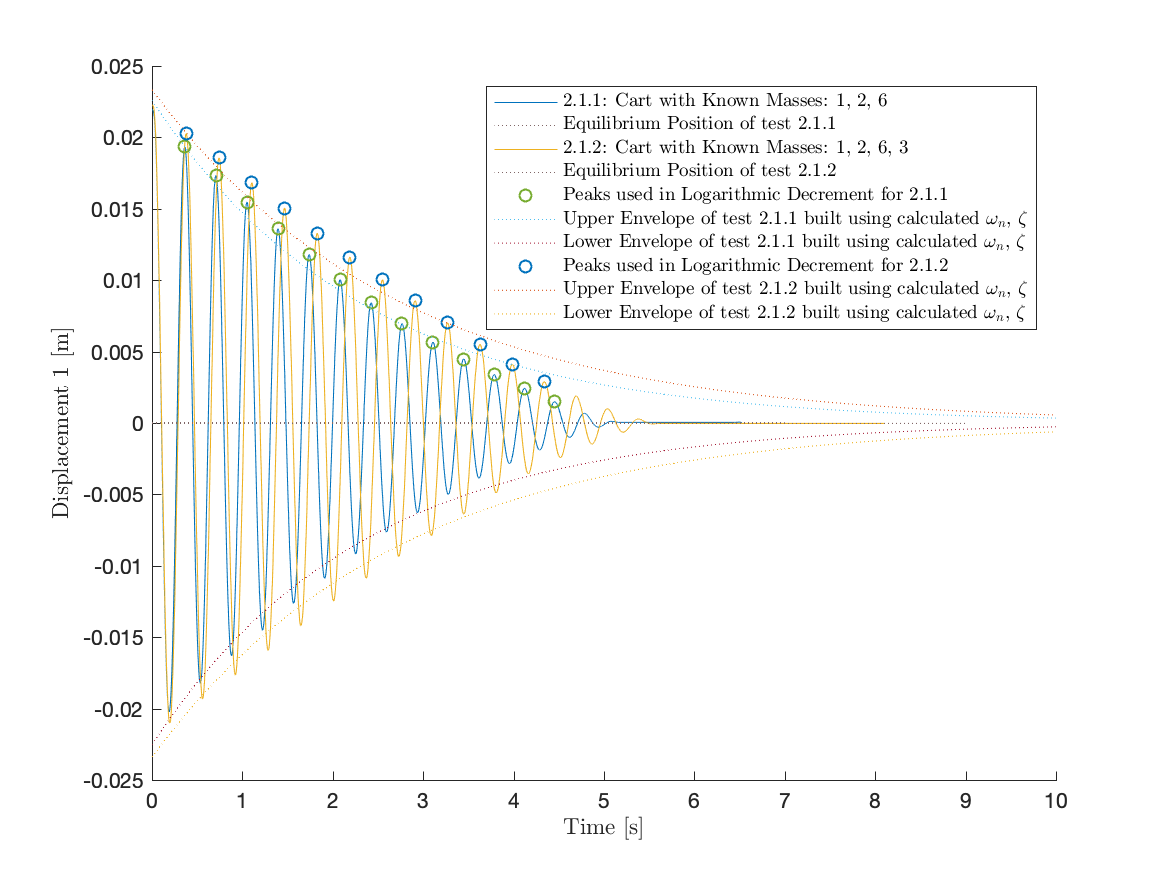
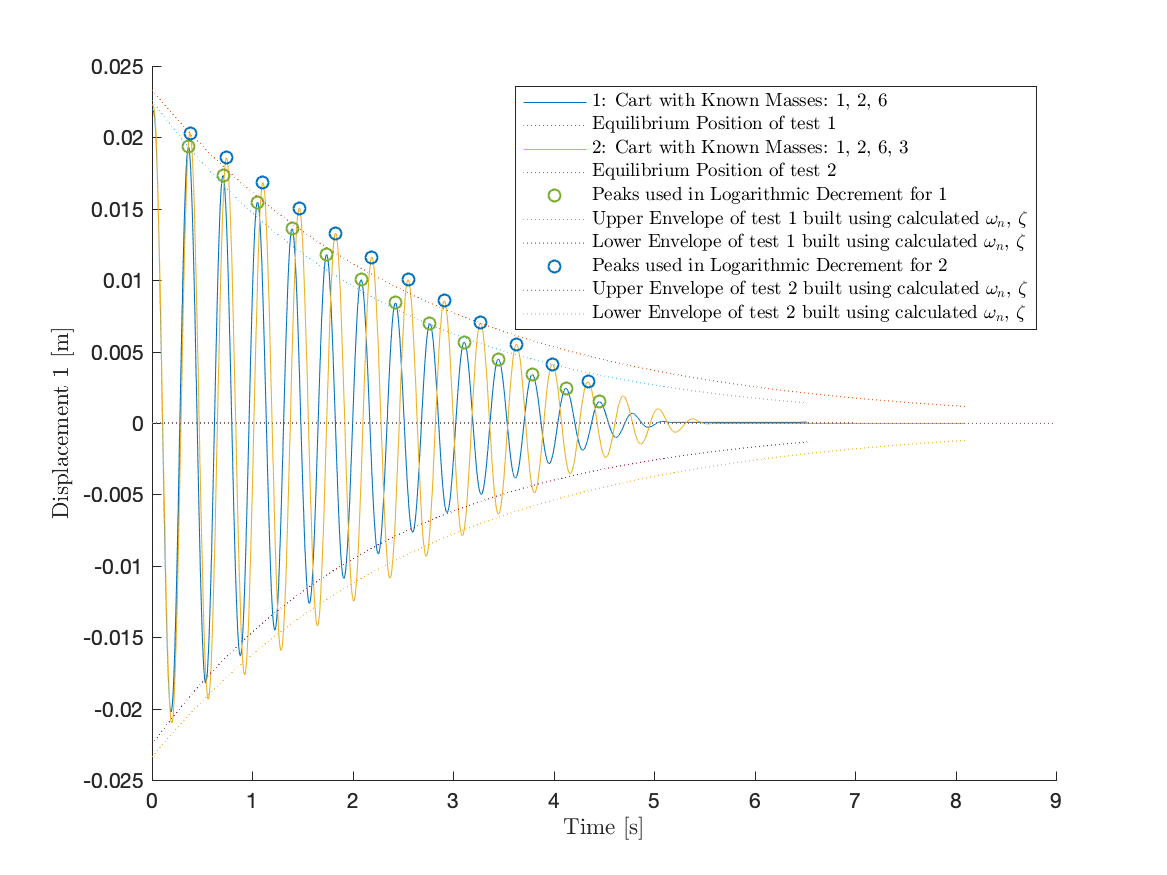
Plots updated. Raw rot_q{2,3,4} loaded in from Tanvi

diff --git a/Lab 1/multi_logdec.m b/Lab 1/multi_logdec.m
@@ -69,16 +69,26 @@ function [wn, z, Ts, t_start, t_end] = multi_logdec(root, varargin)
         dataPeaks = [max(Ts{i}.x1), max(Ts{i}.x2), max(Ts{i}.x3)];
         [~, activeDataColumn] = max(dataPeaks);
         Ts{i}.edit('x1', Ts{i}.get(char("x"+activeDataColumn)));
-        Ts{i}.edit('v1', Ts{i}.get(char("v"+activeDataColumn)));
-        Ts{i}.edit('a1', Ts{i}.get(char("a"+activeDataColumn)));
+        try
+            Ts{i}.edit('v1', Ts{i}.get(char("v"+activeDataColumn)));
+            Ts{i}.edit('a1', Ts{i}.get(char("a"+activeDataColumn)));
+        catch e
+            % File formatting error. Don't worry about it here.
+            warning(e.message);
+        end
         
         % Update to SI Base Units:
         Ts{i}.edit('x1', Ts{i}.x1 * scaling);
         Ts{i}.rename('x1', char("Displacement 1 ["+xunits+"]"));
         Ts{i}.edit('v1', Ts{i}.v1 * scaling);
         Ts{i}.rename('v1', char("Velocity 1 [$^{"+xunits+"}/_s$]"));
-        Ts{i}.edit('a1', Ts{i}.a1 * scaling);
-        Ts{i}.rename('a1', char("Acceleration 1 [$^{"+xunits+"}/_{s^2}$]"));
+        try
+            Ts{i}.edit('a1', Ts{i}.a1 * scaling);
+            Ts{i}.rename('a1', char("Acceleration 1 [$^{"+xunits+"}/_{s^2}$]"));
+        catch e
+            % File formatting error. Don't worry about it here.
+            warning(e.message);
+        end
     end
     
     %% ANALYZE DATA:
@@ -126,8 +136,8 @@ function [wn, z, Ts, t_start, t_end] = multi_logdec(root, varargin)
         scatter(peaks{i}.X-t_start(i), peaks{i}.Y);
         % Plot Envelopes to Verify Collected z,wn:
         envDecay = @(t) (peaks{i}.Y(1)-yinf(i))*exp(-z(i).*wn(i).*(t-peaks{i}.X(1)+t_start(i)))./sqrt(1-z(i)^2);
-        fplot(@(t)yinf(i) + envDecay(t), [0, Ts{i}.t(end)], ':');
-        fplot(@(t)yinf(i) - envDecay(t), [0, Ts{i}.t(end)], ':');
+        fplot(@(t)yinf(i) + envDecay(t), [0, Ts{i}.t(end) - t_start(i)], ':');
+        fplot(@(t)yinf(i) - envDecay(t), [0, Ts{i}.t(end) - t_start(i)], ':');
         hold off
         
         % Create the Legend:

diff --git a/Lab 1/rot_q2.m b/Lab 1/rot_q2.m
@@ -1,0 +1,46 @@
+% Recover all system properties possible from two subsequent trials of a
+% cart in free vibration with different known masses attached to it as
+% required by problem Q2 in the rotational section.
+function rot_q2()
+    % PRIOR KNOWNS:
+    % Masses of Blocks [kg]:
+    mb1 = 501.5e-3; 
+    mb2 = 501e-3;
+    mb3 = 501.25e-3;
+    mb4 = 502.25e-3;
+    
+    % parallel axis theorem: 1/2*m_block*r_block^2 + 1/2
+    % Known Mass added to Each Cart [kg]:
+    m2j = @(m) (m*9e-2)^2 / 2;
+    
+    m1 = 0; % Known mass added to disk in experiment 1
+    m2 = mb1+ mb2 +mb3+mb4; % Known mass added to disk in experiment 2
+    radius_block = 0.0381; % 1.5 inches 
+    J1 = m1*(9e-2)^2
+    J2 = m2*(9e-2)^2
+    
+    root = "RotData/exp2_disk1/";
+    [wn, z] = multi_logdec(root, "trial1", "exp2_test1", "none", "trial2", "exp2_test2", [1,2,3]); % Returns Experimental Results
+    f = gcf;
+    f.WindowState = 'maximized';
+    saveas(gcf, char(mfilename+".png"), 'png');
+    
+    % Reconstruct System Parameters:
+    res = struct(); % Results
+    res.z1 = z(1);
+    res.z2 = z(2);
+    res.J = (J2*wn(2)^2 - J1*wn(1)^2) / (wn(1)^2 - wn(2)^2); % Remaining Unknown mass
+    res.k1 = (res.J + J1)*wn(1)^2;
+    res.k2 = (res.J + J2)*wn(2)^2;
+    res.c1 = 2*z(1)*wn(1)*(res.J+J1);
+    res.c2 = 2*z(2)*wn(2)*(res.J+J2);
+    
+    % Display Results for Evaluation:
+    disp("Parameters Recovered from Data (in SI Base Units):");
+    disp(res);
+    disp("Damping Ratio Percent Difference:");
+    disp( 100 * abs(diff([z(1) z(2)])) / mean([z(1) z(2)]) );
+    disp("Damping Coefficient Percent Difference:");
+    disp( 100 * abs(diff([res.c1 res.c2])) / mean([res.c1 res.c2]) );
+    
+end

diff --git a/Lab 1/rot_q7.m b/Lab 1/rot_q7.m
@@ -8,19 +8,19 @@ function rot_q7()
     
     for i = 1:2 % For each car2 experiment
         % Simulate and Plot the system with the parameters recovered in Q6:
-        [xplot, vplot] = free_vib(exp{i}.J, exp{i}.k, exp{i}.b, q0);
+        [xplot, vplot, ts] = free_vib(exp{i}.J, exp{i}.k, exp{i}.b, q0);
         
         % Plot the data from Q6 alongside the sim:
         figure(xplot); % Snag rect_sim's position figure
         exp{i}.data.plot('t','x1', exp{i}.data.t >= exp{i}.t0, '-', -exp{i}.t0);
-        xlim([0 exp{i}.tf]); % Rescale the x-axis
+        xlim([0 max(exp{i}.tf,ts)]); % Rescale the x-axis
         title({char("Disk 2, Experiment " + i), char("J = " + exp{i}.J + "$kgm^2$ , k = " + exp{i}.k + "$^{Nm}/_{rad}$, b = " + exp{i}.b + "$^{Nms}/_{rad}$")}, 'Interpreter', 'latex'); 
         legend({'2nd Order System Simulated from experimental $k$,$b$,$m$', 'Experimental Data'}, 'Interpreter', 'latex');
         saveas(gcf, char(mfilename+"_exp"+i+"_pos.png"), 'png');
         
         figure(vplot); % Snag rect_sim's velocity figure
         exp{i}.data.plot('t','v1', exp{i}.data.t >= exp{i}.t0, '-', -exp{i}.t0);
-        xlim([0 exp{i}.tf]); % Rescale the x-axis
+        xlim([0 max(exp{i}.tf,ts)]); % Rescale the x-axis
         title({char("Disk 2, Experiment " + i), char("J = " + exp{i}.J + "$kgm^2$ , k = " + exp{i}.k + "$^{Nm}/_{rad}$, b = " + exp{i}.b + "$^{Nms}/_{rad}$")}, 'Interpreter', 'latex'); 
         legend({'2nd Order System Simulated from experimental $k$,$b$,$m$', 'Experimental Data'}, 'Interpreter', 'latex');
         saveas(gcf, char(mfilename+"_exp"+i+"_vel.png"), 'png');

diff --git a/Lab 1/rect_q9.m b/Lab 1/rect_q9.m
@@ -8,17 +8,19 @@ function rect_q9()
     
     for i = 1:2 % For each car2 experiment
         % Simulate and Plot the system with the parameters recovered in Q6:
-        [xplot, vplot] = free_vib(exp{i}.m, exp{i}.k, exp{i}.c, q0);
+        [xplot, vplot, ts] = free_vib(exp{i}.m, exp{i}.k, exp{i}.c, q0);
         
         % Plot the data from Q6 alongside the sim:
         figure(xplot); % Snag rect_sim's position figure
         exp{i}.data.plot('t','x1', exp{i}.data.t >= exp{i}.t0, '-', -exp{i}.t0);
+        xlim([0 max(exp{i}.tf,ts)]); % Rescale the x-axis
         title({char("Car 2, Experiment " + i), char("m = " + exp{i}.m + "kg , k = " + exp{i}.k + "$^N/_m$, c = " + exp{i}.c + "$^{kg}/_s$")}, 'Interpreter', 'latex'); 
         legend({'2nd Order System Simulated from experimental $k$,$c$,$m$', 'Experimental Data'}, 'Interpreter', 'latex');
         saveas(gcf, char(mfilename+"_exp"+i+"_pos.png"), 'png');
         
         figure(vplot); % Snag rect_sim's velocity figure
         exp{i}.data.plot('t','v1', exp{i}.data.t >= exp{i}.t0, '-', -exp{i}.t0);
+        xlim([0 max(exp{i}.tf,ts)]); % Rescale the x-axis
         title({char("Car 2, Experiment " + i), char("m = " + exp{i}.m + "kg , k = " + exp{i}.k + "$^N/_m$, c = " + exp{i}.c + "$^{kg}/_s$")}, 'Interpreter', 'latex');
         legend({'2nd Order System Simulated from experimental $k$,$c$,$m$', 'Experimental Data'}, 'Interpreter', 'latex');
         saveas(gcf, char(mfilename+"_exp"+i+"_vel.png"), 'png');

diff --git a/Lab 1/rot_q3.m b/Lab 1/rot_q3.m
@@ -1,0 +1,34 @@
+% Recover all system properties possible from two subsequent trials of a
+% cart in free vibration with different known masses attached to it as
+% required by problem Q3 in the rotational section.
+% Jdisk is known from Q2
+
+function rot_q3()
+    % PRIOR KNOWNS:
+    % Masses of Blocks [kg]:
+  
+    mb1 = 501.5e-3; 
+    mb2 = 501e-3;
+    mb3 = 501.25e-3;
+    
+    
+    %Mc = 0.7682; % Empirically determined unloaded cart mass
+    
+    % Known Base Mass of Each Cart [kg]:
+    Jdisk = 0.0031;
+    J = Jdisk + (mb1 + mb2 + mb3) * (9e-2)^2;
+    J
+    
+    root = "RotData/exp2_disk1/";
+    [wn, ~] = multi_logdec(root, "2.1.1", "exp2_test2", [1,2,6], "2.1.2", "exp2_test3", [1,2,6,3]); % Returns Experimental Results
+    saveas(gcf, char(mfilename+".png"), 'png');
+    
+    % Reconstruct System Parameters:
+    res = struct(); % Results
+    res.J4 = (J*wn(1)^2 - J*wn(2)^2) / wn(2)^2; % Remaining Unknown moment of inertia
+    res.m4 = res.J4 / ((9e-2)^2); % Remaining Unknown mass
+    
+    % Display Results for Evaluation:
+    disp("Mass Estimate for Small Block:");
+    disp(res);
+end

diff --git a/Lab 1/rot_q6.m b/Lab 1/rot_q6.m
@@ -13,7 +13,7 @@ function [sys1, sys2] = rot_q6()
     J2 = (mb1 + mb2 + mb3)*(9e-2)^2; % Known inertia added to disk in experiment 2 (point mass assumption)
     
     root = "RotData/exp2_disk3/";
-    [wn, z, tables, t_start] = multi_logdec(root, "1", "test1", "none", "2", "test2", [1,2,3]); % Returns Experimental Results
+    [wn, z, tables, t_start, t_end] = multi_logdec(root, "1", "test1", "none", "2", "test2", [1,2,3]); % Returns Experimental Results
     saveas(gcf, char(mfilename+".png"), 'png');
     
     
@@ -37,6 +37,7 @@ function [sys1, sys2] = rot_q6()
     sys1.k = res.k1;
     sys1.data = tables{1}; % Data table of experiment
     sys1.t0 = t_start(1); % Start time of free-vibration.
+    sys1.tf = t_end(1); % End time of data
     
     sys2 = struct(); % For first experiment
     sys2.j = res.J + J2;
@@ -44,5 +45,6 @@ function [sys1, sys2] = rot_q6()
     sys2.k = res.k2;
     sys2.data = tables{2}; % Data table of experiment
     sys2.t0 = t_start(2); % Start time of free-vibration.
+    sys2.tf = t_end(2); % End time of data
     
 end

diff --git a/Lab 1/rect_q6.m b/Lab 1/rect_q6.m
@@ -14,7 +14,7 @@ function [sys1, sys2] = rect_q6()
     m2 = mb1 + mb2 + mb6 + mb3; % Known mass added to cart in experiment 2
     
     root = "RectData/exp2/car2/";
-    [wn, z, tables, t_start] = multi_logdec(root, "2.2.1", "test1", [1,2,6], "2.2.2", "test2", [1,2,6,3]); % Returns Experimental Results
+    [wn, z, tables, t_start, t_end] = multi_logdec(root, "1", "test1", [1,2,6], "2", "test2", [1,2,6,3]); % Returns Experimental Results
     saveas(gcf, char(mfilename+".png"), 'png');
     
     
@@ -43,6 +43,7 @@ function [sys1, sys2] = rect_q6()
     sys1.k = res.k1;
     sys1.data = tables{1}; % Data table of experiment
     sys1.t0 = t_start(1); % Start time of free-vibration.
+    sys1.tf = t_end(1); % End time of data
     
     sys2 = struct(); % For first experiment
     sys2.m = res.M + m2;
@@ -50,5 +51,6 @@ function [sys1, sys2] = rect_q6()
     sys2.k = res.k2;
     sys2.data = tables{2}; % Data table of experiment
     sys2.t0 = t_start(2); % Start time of free-vibration.
+    sys2.tf = t_end(2); % End time of data
     
 end

diff --git a/Lab 1/rot_q4.m b/Lab 1/rot_q4.m
@@ -1,7 +1,7 @@
 % Recover all system properties possible from two subsequent trials of a
 % cart in free vibration with different known masses attached to it as
 % required by problem Q2 in the rectilinear section.
-function rect_q4()
+function _q4()
     % PRIOR KNOWNS:
     % Masses of Blocks [kg]:
     mb1 = 490.5e-3; 
@@ -16,7 +16,7 @@ function rect_q4()
     m5 = Mc + mb1 + mb2 + mb6 + mb3; % Known mass added to cart in experiment 5
     
     root = "RectData/exp2/car1/";
-    [wn, z] = multi_logdec(root, "4", "test4", "none", "5", "test5", [1,2,6,3]); % Returns Experimental Results
+    [wn, z] = multi_logdec(root, "2.1.4", "test4", "none", "2.1.5", "test5", [1,2,6,3]); % Returns Experimental Results
     saveas(gcf, char(mfilename+".png"), 'png');
     
     % Reconstruct System Parameters:

diff --git a/Lab 1/free_vib.m b/Lab 1/free_vib.m
@@ -1,12 +1,15 @@
 % Simulates and plots the vibrations of a 1-DOF 2nd order system subject to 
 % initial conditions q0 = [x0,v0], given its three coefficient dynamic 
 % properties (m,k,c) or their rotational equivalents (J,k,b):
-function [xplot, vplot] = free_vib(m,k,c, q0)
+function [xplot, vplot, ts] = free_vib(m,k,c, q0)
 % Rectilinear test values:
 % 2.138 kg & 760.2383 N/m & 1.9221 kg/s
 % 2.378 kg & 760.2383 N/m & 1.1027 kg/s
 
-    tspan = 0:0.001:10;
+    wn = sqrt(k/m);
+    z = c / m / 2 / wn;
+    ts = 4.6 / z / wn; % 1% Settling Time for Underdamped system
+    tspan = 0:0.001:ts;
     [t,y] = ode45(@(t,q) secondorder(t,q, m,c,k),tspan,q0);
     
     xplot = figure();

diff --git a/Lab 1/rot_q5.m b/Lab 1/rot_q5.m
@@ -37,7 +37,7 @@ function [sys1, sys2] = rot_q5()
     sys1.k = res.k1;
     sys1.data = tables{1}; % Data table of experiment
     sys1.t0 = t_start(1); % Start time of free-vibration.
-    sys1.tf = t_end(1); % Start time of free-vibration.
+    sys1.tf = t_end(1); % End time of data
     
     sys2 = struct(); % For first experiment
     sys2.J = res.J + J2;
@@ -45,6 +45,6 @@ function [sys1, sys2] = rot_q5()
     sys2.k = res.k2;
     sys2.data = tables{2}; % Data table of experiment
     sys2.t0 = t_start(2); % Start time of free-vibration.
-    sys2.tf = t_end(2); % Start time of free-vibration.
+    sys2.tf = t_end(2); % End time of data
     
 end

diff --git a/Lab 1/rect_q2.m b/Lab 1/rect_q2.m
@@ -14,7 +14,7 @@ function rect_q2()
     m2 = 0; % Known mass added to cart in experiment 2
     
     root = "RectData/exp2/car1/";
-    [wn, z] = multi_logdec(root, "2.1.1", "test1", [1,2,6], "2.1.3", "test3", "none"); % Returns Experimental Results
+    [wn, z] = multi_logdec(root, "1", "test1", [1,2,6], "3", "test3", "none"); % Returns Experimental Results
     saveas(gcf, char(mfilename+".png"), 'png');
     
     % Reconstruct System Parameters:

diff --git a/Lab 1/rect_q3.m b/Lab 1/rect_q3.m
@@ -14,7 +14,7 @@ function rect_q3()
     M = Mc + mb1 + mb2 + mb6;
     
     root = "RectData/exp2/car1/";
-    [wn, ~] = multi_logdec(root, "2.1.1", "test1", [1,2,6], "2.1.2", "test2", [1,2,6,3]); % Returns Experimental Results
+    [wn, ~] = multi_logdec(root, "1", "test1", [1,2,6], "2", "test2", [1,2,6,3]); % Returns Experimental Results
     saveas(gcf, char(mfilename+".png"), 'png');
     
     % Reconstruct System Parameters:
